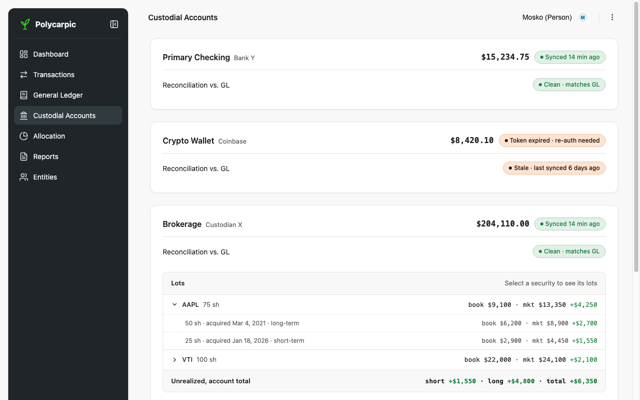
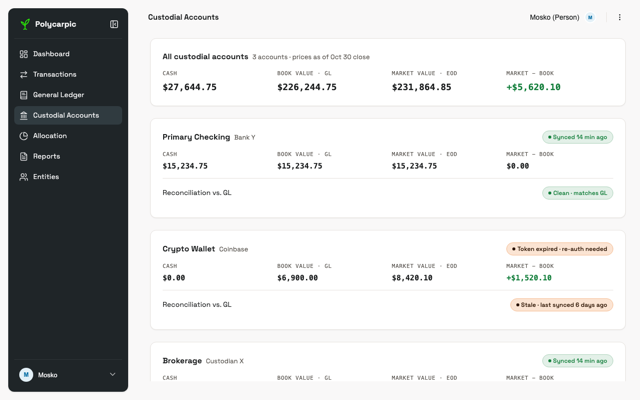
design(flows-refine): custodial cash/book/market figures; allocation drill
Every custodial card shows cash, book value (GL cost basis) and market
value (EOD) side by side with market minus book; a totals card sums them.
Brokerage figures reconcile with the GL tree and the lots sub-card (BND
added so the lots total equals market minus book). Allocation classes
drill to their lots. Spec updated; custodial thumbnail re-rendered.

Claude-Session: https://claude.ai/code/session_01ShccjGpngWMgusX4atqtRi

diff --git a/docs/DESIGN/styled-screens/custodial-accounts.html b/docs/DESIGN/styled-screens/custodial-accounts.html
@@ -8,7 +8,7 @@
 <link rel="stylesheet" href="../screen.css">
 </head>
 <body>
-<!-- Custodial Accounts (pass 7; styled pass 13). One card per physical account: balance, link health (caution tier for an expired or stale link that still has cached data), reconciliation vs. GL, and for a brokerage the lots sub-card (Collapsible, one security pulled down). Sync pulls balances AND positions. The provider-item Dialog (More > New provider item) is shown open below the cards as the reference, same convention as the journal-entry modal. Viewers see no Sync / New / token-refresh / unlink actions. -->
+<!-- Custodial Accounts. A totals card, then one card per physical account. Every card shows the same three figures side by side: cash balance, book value (the GL's cost basis, cash included) and market value (cash + positions at EOD prices), then market minus book; the totals card sums them across accounts. Then link health (caution tier for an expired or stale link that still has cached data), reconciliation vs. GL, and for a brokerage the lots sub-card (Collapsible, one security pulled down). Sync pulls balances AND positions. The provider-item Dialog (More > New provider item) is shown open below the cards as the reference, same convention as the journal-entry modal. Viewers see no Sync / New / token-refresh / unlink actions. -->
 <div class="shell">
   <aside class="sidebar" id="app-sidebar">
     <!-- Brand row (pass 12, Gemini pattern): expanded = logo + wordmark,
@@ -56,10 +56,27 @@
     </div>
 
   <main class="content" style="padding-top:8px;">
+    <div class="card custodial-totals">
+      <div class="custodial-head">
+        <span class="custodial-name">All custodial accounts <span class="institution">3 accounts · prices as of Oct 30 close</span></span>
+      </div>
+      <div class="custodial-figs">
+        <div class="custodial-fig"><span class="eyebrow">Cash</span><span class="custodial-fig-value">$27,644.75</span></div>
+        <div class="custodial-fig"><span class="eyebrow">Book value · GL</span><span class="custodial-fig-value">$226,244.75</span></div>
+        <div class="custodial-fig"><span class="eyebrow">Market value · EOD</span><span class="custodial-fig-value">$231,864.85</span></div>
+        <div class="custodial-fig"><span class="eyebrow">Market − book</span><span class="custodial-fig-value"><span class="gain-positive">+$5,620.10</span></span></div>
+      </div>
+    </div>
     <div class="card">
       <div class="custodial-head">
         <span class="custodial-name">Primary Checking <span class="institution">Bank Y</span></span>
-        <span class="custodial-meta"><span class="custodial-balance">$15,234.75</span><span class="badge badge-positive-soft"><span class="status-dot"></span>Synced 14 min ago</span></span>
+        <span class="custodial-meta"><span class="badge badge-positive-soft"><span class="status-dot"></span>Synced 14 min ago</span></span>
+      </div>
+      <div class="custodial-figs">
+        <div class="custodial-fig"><span class="eyebrow">Cash</span><span class="custodial-fig-value">$15,234.75</span></div>
+        <div class="custodial-fig"><span class="eyebrow">Book value · GL</span><span class="custodial-fig-value">$15,234.75</span></div>
+        <div class="custodial-fig"><span class="eyebrow">Market value · EOD</span><span class="custodial-fig-value">$15,234.75</span></div>
+        <div class="custodial-fig"><span class="eyebrow">Market − book</span><span class="custodial-fig-value">$0.00</span></div>
       </div>
       <div class="custodial-recon">
         <div class="kv-row"><span>Reconciliation vs. GL</span><span class="kv-value"><span class="badge badge-positive-soft"><span class="status-dot"></span>Clean · matches GL</span></span></div>
@@ -68,7 +85,13 @@
     <div class="card">
       <div class="custodial-head">
         <span class="custodial-name">Crypto Wallet <span class="institution">Coinbase</span></span>
-        <span class="custodial-meta"><span class="custodial-balance">$8,420.10</span><span class="badge badge-warning-soft"><span class="status-dot"></span>Token expired · re-auth needed</span></span>
+        <span class="custodial-meta"><span class="badge badge-warning-soft"><span class="status-dot"></span>Token expired · re-auth needed</span></span>
+      </div>
+      <div class="custodial-figs">
+        <div class="custodial-fig"><span class="eyebrow">Cash</span><span class="custodial-fig-value">$0.00</span></div>
+        <div class="custodial-fig"><span class="eyebrow">Book value · GL</span><span class="custodial-fig-value">$6,900.00</span></div>
+        <div class="custodial-fig"><span class="eyebrow">Market value · EOD</span><span class="custodial-fig-value">$8,420.10</span></div>
+        <div class="custodial-fig"><span class="eyebrow">Market − book</span><span class="custodial-fig-value"><span class="gain-positive">+$1,520.10</span></span></div>
       </div>
       <div class="custodial-recon">
         <div class="kv-row"><span>Reconciliation vs. GL</span><span class="kv-value"><span class="badge badge-warning-soft"><span class="status-dot"></span>Stale · last synced 6 days ago</span></span></div>
@@ -77,7 +100,13 @@
     <div class="card">
       <div class="custodial-head">
         <span class="custodial-name">Brokerage <span class="institution">Custodian X</span></span>
-        <span class="custodial-meta"><span class="custodial-balance">$204,110.00</span><span class="badge badge-positive-soft"><span class="status-dot"></span>Synced 14 min ago</span></span>
+        <span class="custodial-meta"><span class="badge badge-positive-soft"><span class="status-dot"></span>Synced 14 min ago</span></span>
+      </div>
+      <div class="custodial-figs">
+        <div class="custodial-fig"><span class="eyebrow">Cash</span><span class="custodial-fig-value">$12,410.00</span></div>
+        <div class="custodial-fig"><span class="eyebrow">Book value · GL</span><span class="custodial-fig-value">$204,110.00</span></div>
+        <div class="custodial-fig"><span class="eyebrow">Market value · EOD</span><span class="custodial-fig-value">$208,210.00</span></div>
+        <div class="custodial-fig"><span class="eyebrow">Market − book</span><span class="custodial-fig-value"><span class="gain-positive">+$4,100.00</span></span></div>
       </div>
       <div class="custodial-recon">
         <div class="kv-row"><span>Reconciliation vs. GL</span><span class="kv-value"><span class="badge badge-positive-soft"><span class="status-dot"></span>Clean · matches GL</span></span></div>
@@ -88,7 +117,8 @@
         <div class="lot-detail"><span>50 sh · acquired Mar 4, 2021 · long-term</span><span class="lot-figs">book $6,200 · mkt $8,900 <span class="gain-positive">+$2,700</span></span></div>
         <div class="lot-detail"><span>25 sh · acquired Jan 18, 2026 · short-term</span><span class="lot-figs">book $2,900 · mkt $4,450 <span class="gain-positive">+$1,550</span></span></div>
         <div class="lot-security" aria-expanded="false"><span class="lot-name"><span class="icon icon-sm"><svg viewBox="0 0 24 24" fill="none" stroke="currentColor" stroke-width="2" stroke-linecap="round" stroke-linejoin="round"><path d="m9 18 6-6-6-6"/></svg></span>VTI <span class="card-sub" style="font-weight:400;">100 sh</span></span><span class="lot-figs">book $22,000 · mkt $24,100 <span class="gain-positive">+$2,100</span></span></div>
-        <div class="lots-total"><span>Unrealized, account total</span><span class="lot-figs">short <span class="gain-positive">+$1,550</span> · long <span class="gain-positive">+$4,800</span> · total <span class="gain-positive">+$6,350</span></span></div>
+        <div class="lot-security" aria-expanded="false"><span class="lot-name"><span class="icon icon-sm"><svg viewBox="0 0 24 24" fill="none" stroke="currentColor" stroke-width="2" stroke-linecap="round" stroke-linejoin="round"><path d="m9 18 6-6-6-6"/></svg></span>BND <span class="card-sub" style="font-weight:400;">2,200 sh</span></span><span class="lot-figs">book $160,600 · mkt $158,350 <span class="gain-negative">−$2,250</span></span></div>
+        <div class="lots-total"><span>Unrealized, account total</span><span class="lot-figs">short <span class="gain-positive">+$1,550</span> · long <span class="gain-positive">+$2,550</span> · total <span class="gain-positive">+$4,100</span></span></div>
       </div>
     </div>
     <div class="je-modal-scrim" style="margin-top:24px;">

diff --git a/docs/DESIGN/styled-screens/allocation.html b/docs/DESIGN/styled-screens/allocation.html
@@ -8,7 +8,7 @@
 <link rel="stylesheet" href="../screen.css">
 </head>
 <body>
-<!-- Allocation (pass 7; styled pass 13). Actual vs. target by asset class, aggregated from the same lot data as Custodial Accounts' lots sub-card across every custodial account for this entity. The nominal / inflation-adjusted toggle (CPI-U, PRD 4.9) is orthogonal to actual-vs-target. Drift uses a neutral outline badge, not a status hue: a 2-point drift is information, not a warning. Save is enabled only when the targets total 100%. -->
+<!-- Allocation. Actual vs. target by asset class, aggregated from the same lot data as Custodial Accounts' lots sub-card across every custodial account for this entity. The nominal / inflation-adjusted toggle (CPI-U, PRD 4.9) is orthogonal to actual-vs-target. Drift uses a neutral outline badge, not a status hue: a 2-point drift is information, not a warning. Save is enabled only when the targets total 100%. Each asset-class name drills to the lots behind it on Custodial Accounts (filtered to that class). -->
 <div class="shell">
   <aside class="sidebar" id="app-sidebar">
     <!-- Brand row (pass 12, Gemini pattern): expanded = logo + wordmark,
@@ -66,25 +66,25 @@
         <span class="alloc-legend"><span><span style="width:16px;height:8px;border-radius:999px;background:var(--chart-1);display:inline-block;"></span>Actual</span><span><span style="width:2px;height:12px;background:var(--foreground);display:inline-block;"></span>Target</span></span>
       </div>
         <div class="alloc-row">
-          <span class="alloc-name"><span class="dot" style="width:8px;height:8px;border-radius:50%;background:var(--chart-1);display:inline-block;"></span>US Equity</span>
+          <span class="alloc-name"><span class="dot" style="width:8px;height:8px;border-radius:50%;background:var(--chart-1);display:inline-block;"></span><a href="custodial-accounts.html" title="See the lots behind US Equity">US Equity</a></span>
           <div class="alloc-track" role="img" aria-label="US Equity: actual 42%, target 40%"><span class="alloc-fill" style="width:42%; background:var(--chart-1);"></span><span class="alloc-target" style="left:40%;"></span></div>
           <span class="alloc-figs">42% / 40%</span>
           <span class="badge badge-outline">+2 pt over</span>
         </div>
         <div class="alloc-row">
-          <span class="alloc-name"><span class="dot" style="width:8px;height:8px;border-radius:50%;background:var(--chart-2);display:inline-block;"></span>Intl Equity</span>
+          <span class="alloc-name"><span class="dot" style="width:8px;height:8px;border-radius:50%;background:var(--chart-2);display:inline-block;"></span><a href="custodial-accounts.html" title="See the lots behind Intl Equity">Intl Equity</a></span>
           <div class="alloc-track" role="img" aria-label="Intl Equity: actual 18%, target 20%"><span class="alloc-fill" style="width:18%; background:var(--chart-2);"></span><span class="alloc-target" style="left:20%;"></span></div>
           <span class="alloc-figs">18% / 20%</span>
           <span class="badge badge-outline">−2 pt under</span>
         </div>
         <div class="alloc-row">
-          <span class="alloc-name"><span class="dot" style="width:8px;height:8px;border-radius:50%;background:var(--chart-3);display:inline-block;"></span>Fixed Income</span>
+          <span class="alloc-name"><span class="dot" style="width:8px;height:8px;border-radius:50%;background:var(--chart-3);display:inline-block;"></span><a href="custodial-accounts.html" title="See the lots behind Fixed Income">Fixed Income</a></span>
           <div class="alloc-track" role="img" aria-label="Fixed Income: actual 25%, target 25%"><span class="alloc-fill" style="width:25%; background:var(--chart-3);"></span><span class="alloc-target" style="left:25%;"></span></div>
           <span class="alloc-figs">25% / 25%</span>
           <span class="badge badge-positive-soft">On target</span>
         </div>
         <div class="alloc-row">
-          <span class="alloc-name"><span class="dot" style="width:8px;height:8px;border-radius:50%;background:var(--chart-4);display:inline-block;"></span>Cash</span>
+          <span class="alloc-name"><span class="dot" style="width:8px;height:8px;border-radius:50%;background:var(--chart-4);display:inline-block;"></span><a href="custodial-accounts.html" title="See the lots behind Cash">Cash</a></span>
           <div class="alloc-track" role="img" aria-label="Cash: actual 15%, target 15%"><span class="alloc-fill" style="width:15%; background:var(--chart-4);"></span><span class="alloc-target" style="left:15%;"></span></div>
           <span class="alloc-figs">15% / 15%</span>
           <span class="badge badge-positive-soft">On target</span>

diff --git a/docs/DESIGN/screen.css b/docs/DESIGN/screen.css
@@ -1417,6 +1417,16 @@ table.data-table tr.opening td { color: var(--muted-foreground); font-style: ita
 .dark .badge-warning-soft { color: var(--warning); }
 .badge-positive-soft { background: color-mix(in srgb, var(--positive) 12%, var(--card)); color: var(--positive); border-color: color-mix(in srgb, var(--positive) 35%, var(--card)); }
 .badge .status-dot { width: 6px; height: 6px; border-radius: 50%; background: currentColor; display: inline-block; }
+/* The three figures every custodial account shows side by side: cash
+   balance, book value (the GL's cost basis, cash included) and market
+   value (cash + positions at EOD prices), then market minus book. One
+   row per account card, and the same row summed on the totals card. */
+.custodial-figs { display: grid; grid-template-columns: repeat(4, minmax(0, 1fr)); gap: 16px; margin-top: 14px; }
+.custodial-fig { display: flex; flex-direction: column; gap: 4px; min-width: 0; }
+.custodial-fig .eyebrow { white-space: nowrap; }
+.custodial-fig-value { font-family: var(--font-mono); font-variant-numeric: tabular-nums; font-size: 15px; font-weight: 600; white-space: nowrap; }
+.custodial-totals .custodial-fig-value { font-size: 18px; }
+@media (max-width: 1100px) { .custodial-figs { grid-template-columns: repeat(2, minmax(0, 1fr)); } }
 .custodial-recon { margin-top: 12px; padding-top: 4px; border-top: 1px solid var(--border); }
 .lots { margin-top: 16px; border: 1px solid var(--border); border-radius: var(--radius-md); background: var(--muted); overflow: hidden; }
 .lots-head { padding: 12px 16px; font-size: 13px; font-weight: 600; display: flex; justify-content: space-between; gap: 12px; }
@@ -1436,6 +1446,8 @@ table.data-table tr.opening td { color: var(--muted-foreground); font-style: ita
 .alloc-row { display: grid; grid-template-columns: 160px 1fr 150px 110px; align-items: center; gap: 16px; padding: 14px 0; border-bottom: 1px solid var(--border); font-size: 14px; }
 .alloc-row:last-child { border-bottom: none; }
 .alloc-row .alloc-name { display: flex; align-items: center; gap: 8px; font-weight: 500; }
+.alloc-row .alloc-name a { color: inherit; text-decoration: none; }
+.alloc-row .alloc-name a:hover, .alloc-row .alloc-name a:focus-visible { text-decoration: underline; }
 .alloc-row .alloc-figs { font-family: var(--font-mono); font-variant-numeric: tabular-nums; font-size: 13px; color: var(--muted-foreground); text-align: right; }
 .alloc-row .badge { justify-self: end; }
 .alloc-track { position: relative; height: 10px; border-radius: 999px; background: var(--muted); }

diff --git a/docs/DESIGN/design-system-spec.md b/docs/DESIGN/design-system-spec.md
@@ -331,7 +331,7 @@ Settings/Notifications carry a `.proposed-tag` badge in the styled screens — v
 | 1 | **Dashboard** | — | Cross-cutting summary — net worth, cash flow, tax, allocation snapshot. |
 | 2 | **Transactions** | the journal and import status | The time-ordered journal: three accordion cards in urgency order — Exceptions, Pending, Posted. The Pending card is the bank-feed review/match inbox (see § Transactions workflow). Import stats/status and the Sync Transactions / New entry actions live here; there is no separate "Import" item. Not the chart of accounts; see General Ledger for that. |
 | 3 | **General Ledger** | the GL side of accounts | Opens to a chart-of-accounts **tree** (category → account → sub-account, balances, a custodial marker on accounts that mirror a physical account). Clicking an account opens that account's **register** — a separate page, breadcrumbed back to the tree — showing every line that hit it, in date order, with a running balance; each line links to its full journal entry. The register is account-scoped and running-balance-shaped; Transactions is entry-scoped and time-ordered — genuinely different questions, not two views of one screen. |
-| 4 | **Custodial Accounts** | the physical side of accounts, and securities | The physical-account view — per-institution cards, reported balance, reconciliation status against the GL. Each account has a **lots sub-card**: a pull-down per security showing its lots and short/long/total current gain or loss, summed per security and per account. Book-vs-market is implicit here (the lots themselves), not a separate chart. New custodial accounts and provider links are created via a New provider item dialog on this screen (aggregator, manual, or file-import source type; a discovered-account mapping step; token refresh; unlink, with the ≤24h revocation-lag note on the Vercel target). Link health (expired token, lost access, stale) shows as a badge on the card and a banner on Transactions. Sync here pulls positions and balances. |
+| 4 | **Custodial Accounts** | the physical side of accounts, and securities | The physical-account view — per-institution cards, each showing **cash balance, book value (GL cost basis) and market value (EOD prices) side by side, with market minus book**, plus reconciliation status against the GL; a totals card sums the three figures across accounts. Each account that holds securities has a **lots sub-card**: a pull-down per security showing its lots and short/long/total current gain or loss, summed per security and per account. New custodial accounts and provider links are created via a New provider item dialog on this screen (aggregator, manual, or file-import source type; a discovered-account mapping step; token refresh; unlink, with the ≤24h revocation-lag note on the Vercel target). Link health (expired token, lost access, stale) shows as a badge on the card and a banner on Transactions. Sync here pulls positions and balances. |
 | 5 | **Allocation** | allocation vs. target | A dedicated actual-vs-target page. |
 | 6 | **Reports** | — | Balance Sheet, Income Statement, Cash Flow — the Dashboard's empty-state pattern (§ Component inventory) until POLY-M5 ships statements. |
 | 7 | **Entities** | — | Entity list, memberships, invite, and create — every entity beyond the user's own Person entity is created here (§ Entities & membership). |
@@ -431,15 +431,26 @@ See `styled-screens/general-ledger.html` and `styled-screens/account-register.ht
 
 ## Custodial Accounts: lots & provider setup
 
-"Sub-card in the Custodial view... pull downs of each security to show lots. And for the Allocation vs target to be a dedicated page. The book vs market should be implicit in the custodial view, shown as whether the lots (and sum of lots) show the short/long/total current gains/losses." Lots live here; allocation vs. target is its own screen (§ Allocation, Reports & Settings).
+"Sub-card in the Custodial view... pull downs of each security to show lots. And for the Allocation vs target to be a dedicated page." Lots live here; allocation vs. target is its own screen (§ Allocation, Reports & Settings).
 
-**Per-account card:** institution name, reported balance, link-health badge, and a reconciliation line against the GL (clean / stale / break, per the status tiers — the danger tier surfaces on the Dashboard too, per flow 5.4).
+**Three figures on every account, side by side.** Each custodial-account card shows, in one row:
+
+| Figure | What it is | Source |
+|---|---|---|
+| **Cash** | The account's cash balance (a brokerage's sweep cash; the whole balance of a bank account) | Custodian-reported, reconciled to the GL |
+| **Book value · GL** | Cost basis of everything in the account, cash included — the GL's own balance for the mirrored account | General Ledger (lots at cost) |
+| **Market value · EOD** | Cash plus every position at the last end-of-day price | Lots × daily EOD price feed |
+| **Market − book** | Unrealized gain or loss, signed and coloured per § Delta coloring | Derived |
+
+A cash-only account shows the same row with the three figures equal and a `$0.00` delta: the row keeps one shape on every card, so accounts scan as a column. A **totals card** above the account cards sums the same four figures across every custodial account for the entity, with the price date ("prices as of <date> close"). Market − book on an account equals its lots sub-card's total unrealized gain; the two figures must agree.
+
+**Per-account card:** institution name, link-health badge, the three-figure row, and a reconciliation line against the GL (clean / stale / break, per the status tiers — the danger tier surfaces on the Dashboard too, per flow 5.5).
 
 **The lots sub-card (only on accounts that hold securities):**
 - One row per security, collapsed by default — a pull-down (chevron) reveals its individual lots.
 - Each lot shows book value, market value, and its own short-term or long-term unrealized gain/loss.
 - The security's own row shows its summed book/market/gain across all its lots.
-- The account's lots sub-card totals short, long, and total unrealized gain/loss across every security — this **is** the book-vs-market comparison; there is no separate book-vs-market chart.
+- The account's lots sub-card totals short, long, and total unrealized gain/loss across every security; the total equals the card's Market − book figure. There is no separate book-vs-market chart.
 
 **The New provider item dialog:**
 - **Source type**, chosen first: aggregator (Plaid/SimpleFIN/fake), a manual account (no live link), or an imported file (CSV/OFX).
@@ -458,7 +469,7 @@ See `styled-screens/custodial-accounts.html`: the lots sub-card shows one securi
 
 ## Allocation, Reports & Settings
 
-**Allocation.** A dedicated actual-vs-target page. Pulls from the same lot data as Custodial Accounts' lots sub-card, aggregated by asset class across every custodial account for the entity — not a new data source, a different aggregation. The nominal/inflation-adjusted (CPI-U) toggle (PRD §4.9) is orthogonal and applies here like any time-series view. Includes a target editor (targets must sum to 100%).
+**Allocation.** A dedicated actual-vs-target page. Pulls from the same lot data as Custodial Accounts' lots sub-card, aggregated by asset class across every custodial account for the entity — not a new data source, a different aggregation. The nominal/inflation-adjusted (CPI-U) toggle (PRD §4.9) is orthogonal and applies here like any time-series view. Includes a target editor (targets must sum to 100%). Each asset class drills to the lots behind it on Custodial Accounts, filtered to that class. Flow 5.6.
 
 **Reports.** A nav item **from day one**: "its own sidebar item from day one... built in POLY-M5 (Statements); until then it shows the Dashboard's empty-state pattern." Three statements — Balance Sheet, Income Statement, Cash Flow — behind the same `Tabs` pattern used elsewhere. Before M5, every tab uses the empty-state convention (real card chrome, "Not set up yet," no milestone/version naming) rather than being hidden or disabled — the nav item itself is never gated on the feature shipping.
 
